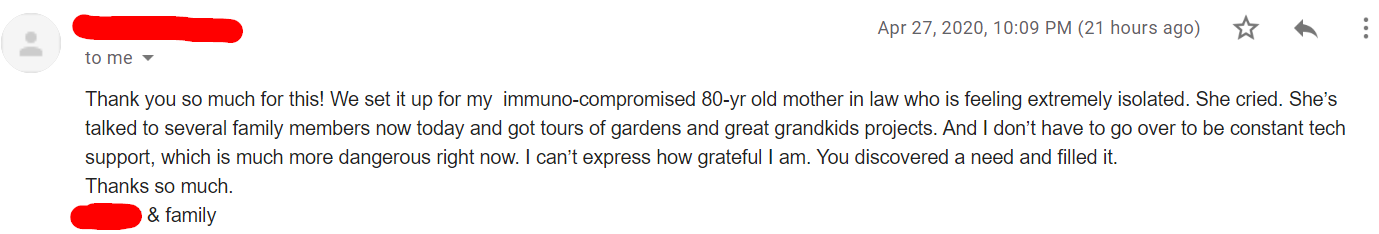
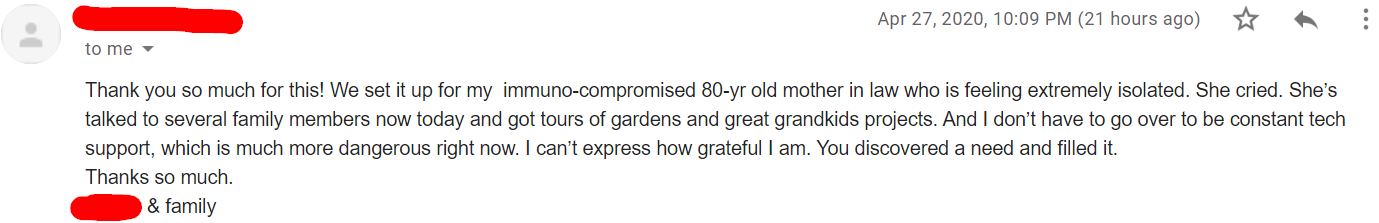
Minor homepage tweaks that Adeline recommended.  Moved 'scroll down' arrows directly below the c2a button, and put a border around the email image.  Also did a better crop job on the email images.

diff --git a/pages/index.js b/pages/index.js
@@ -144,12 +144,35 @@ export default class Home extends React.Component {
 
                 <br />
 
-                <div className="content has-text-centered">
+                {/* <div className="content has-text-centered">
                   <p>...or, <Link  href="/support">
                       <a>
                         get help from a volunteer
                       </a>
                     </Link>.</p>
+                </div> */}
+
+                <div className="columns is-centered is-vcentered is-mobile">
+                  <div className="column">
+                    <div className="content is-size-2 has-text-right">
+                      <p>↓</p>
+                    </div>
+                  </div>
+
+
+                  <div className="column">
+                    <div className="content has-text-centered">
+                      <p>...or, read more about us below</p>
+                    </div>
+                  </div>
+
+                  
+                  <div className="column">
+                    <div className="content is-size-2 has-text-left">
+                      <p>↓</p>
+                    </div>
+                  </div>
+                  
                 </div>
 
               
@@ -193,13 +216,13 @@ export default class Home extends React.Component {
 
         </div>
 
-        <div className="hero-foot is-hidden-mobile animated fadeIn">
+        {/* <div className="hero-foot is-hidden-mobile animated fadeIn">
           <div className="container">
             <div className="content has-text-centered is-size-2">
               ↓  ↓  ↓  ↓
             </div>
           </div>
-        </div>
+        </div> */}
       </section>
 
 
@@ -221,10 +244,20 @@ export default class Home extends React.Component {
 
               <style jsx>{`
 
+                img {
+                  border: 1px dashed black;
+                  border-radius: 15px;
+                  padding: 3px;
+                }
+
                 @media (min-width: 450px) {
                   .heavier-margin {
                     margin: 3%;
                     width: 94%;
+                  }
+
+                  img {
+                    padding: 15px;
                   }
                 }
                 
@@ -235,10 +268,12 @@ export default class Home extends React.Component {
           </div>
 
         </div>
-        
+
+        <br />
+{/*         
       </section>
 
-      <section className="section">
+      <section className="section"> */}
         <div className="container">
           <br />
 

diff --git a/components/Footer.js b/components/Footer.js
@@ -10,6 +10,10 @@ const component = () => {
                 <strong className="has-text-grey-light">TabletConnect.org</strong> - built by Steve Trambert
             </p>
 
+            <p>
+                Special thanks to Vercel for their charitable sponsorship.
+            </p>
+
             
 
             <TrackedLink href="https://www.vercel.com/?utm_source=tabletconnect-dot-org">
